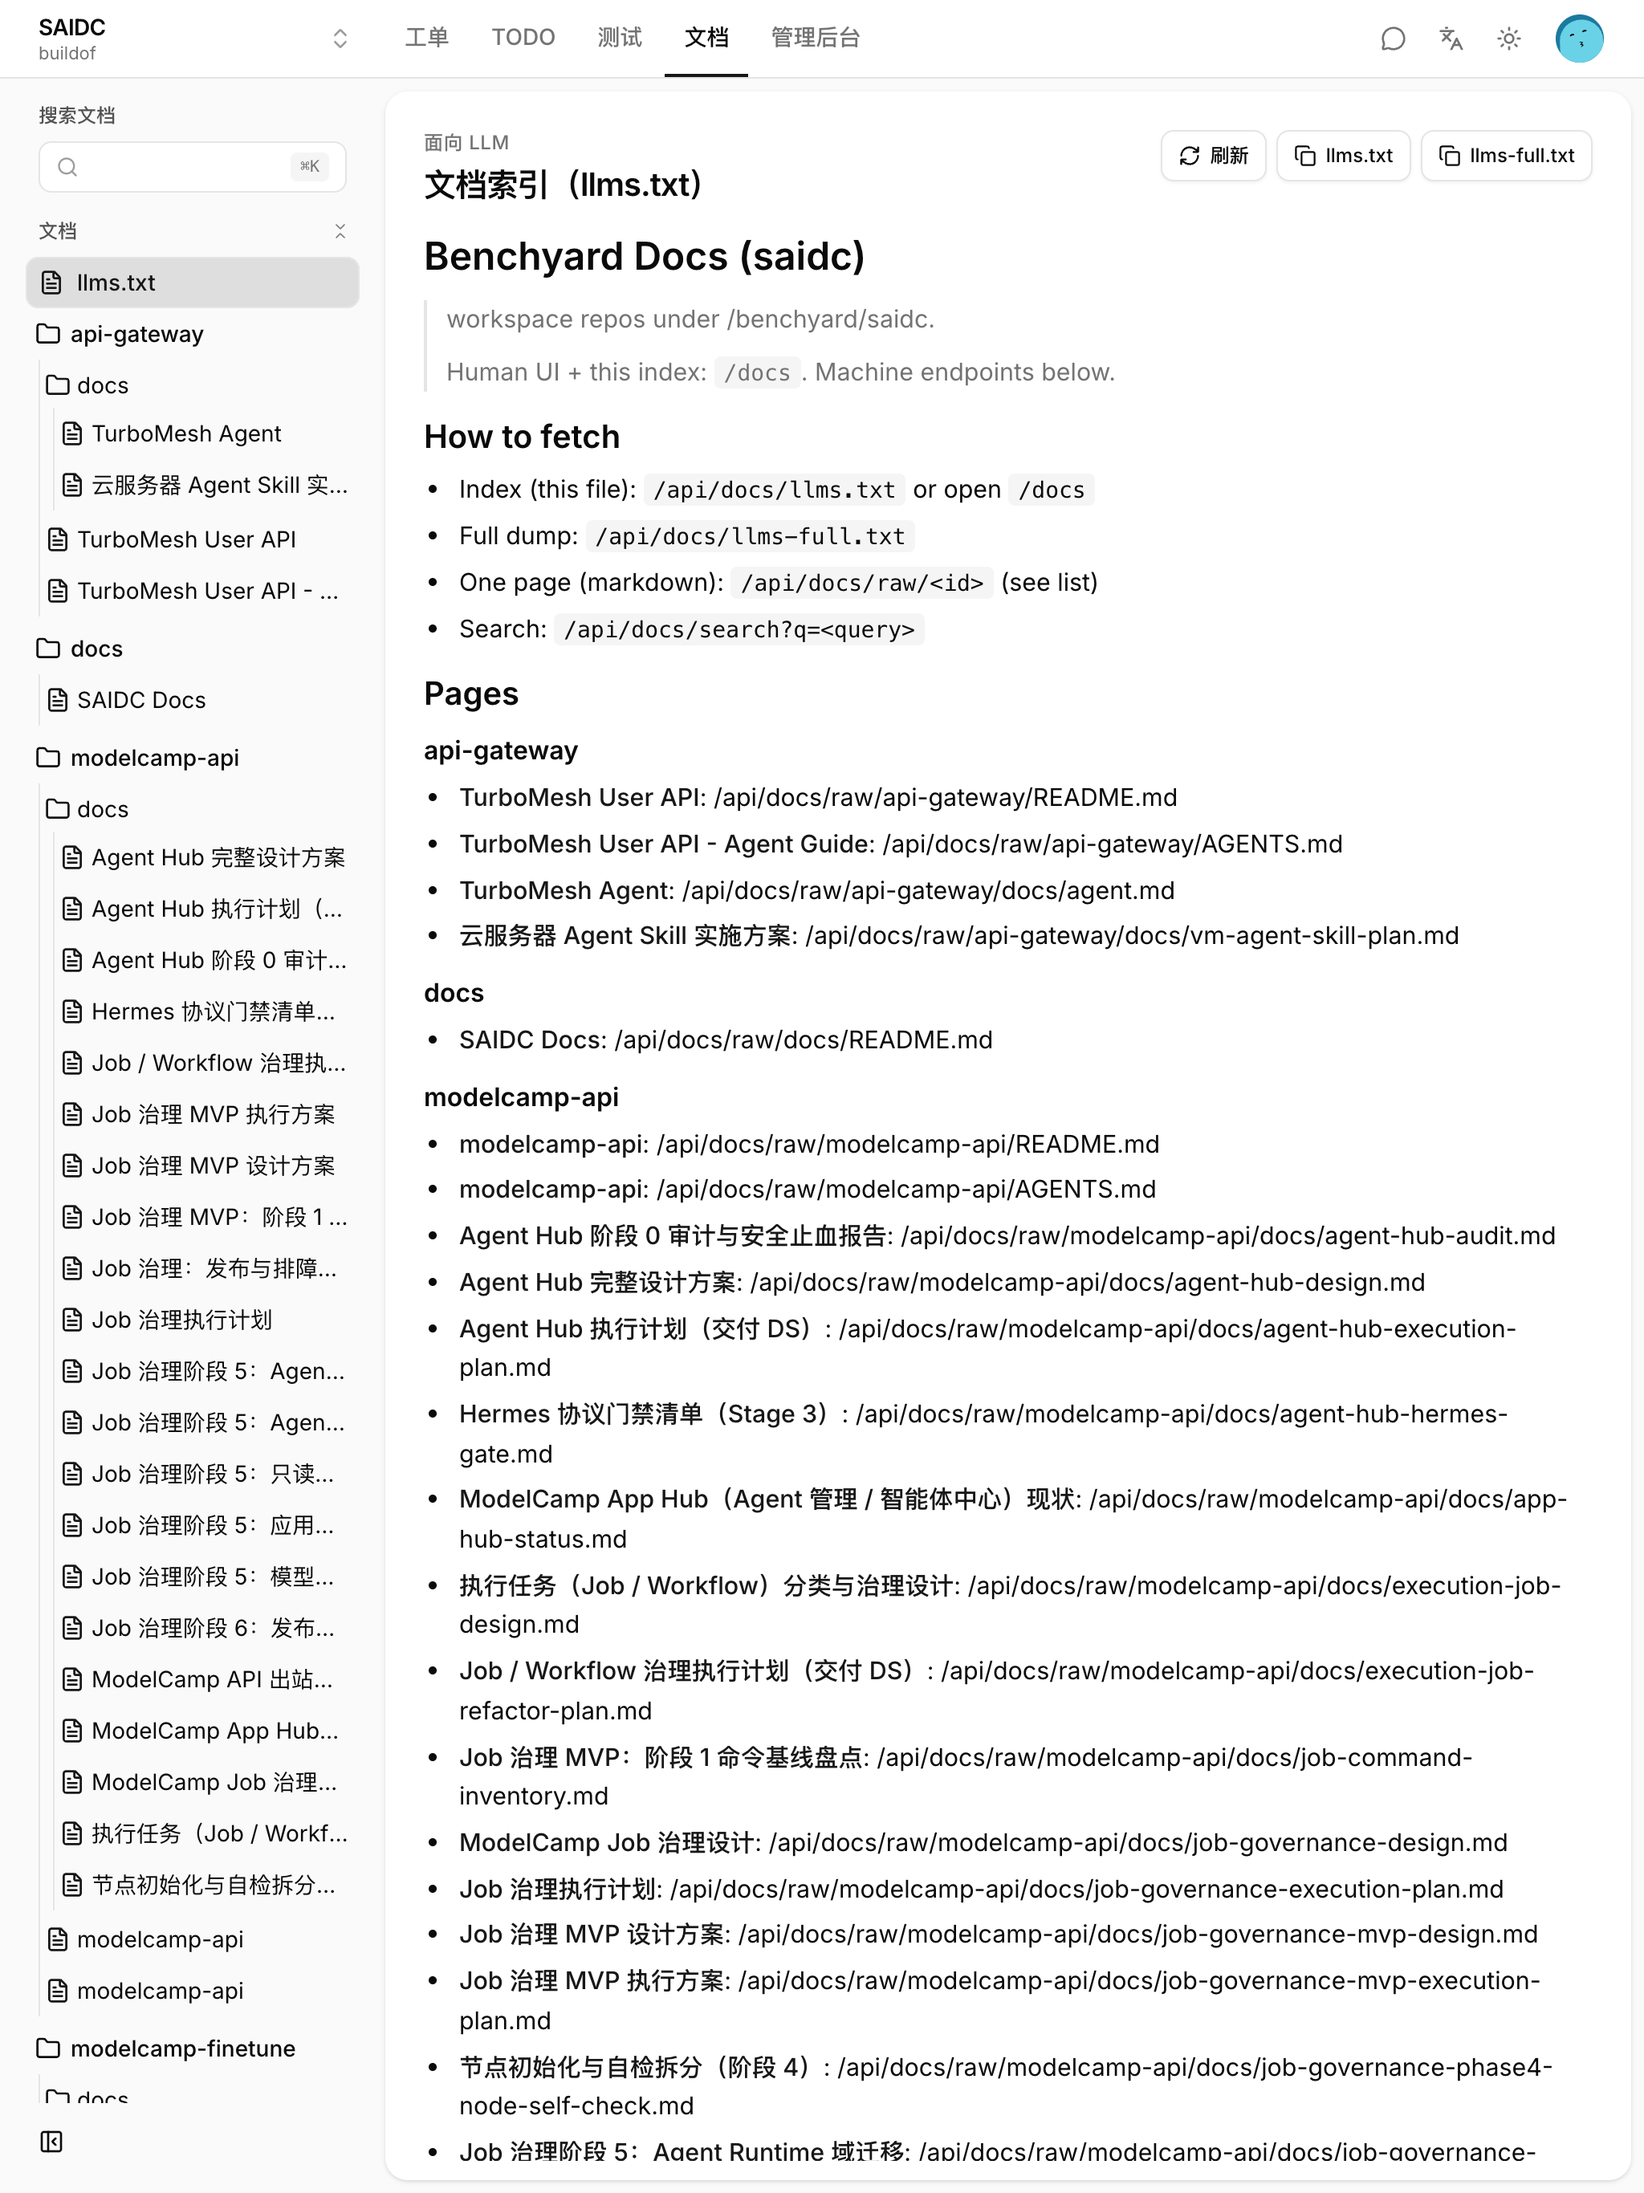
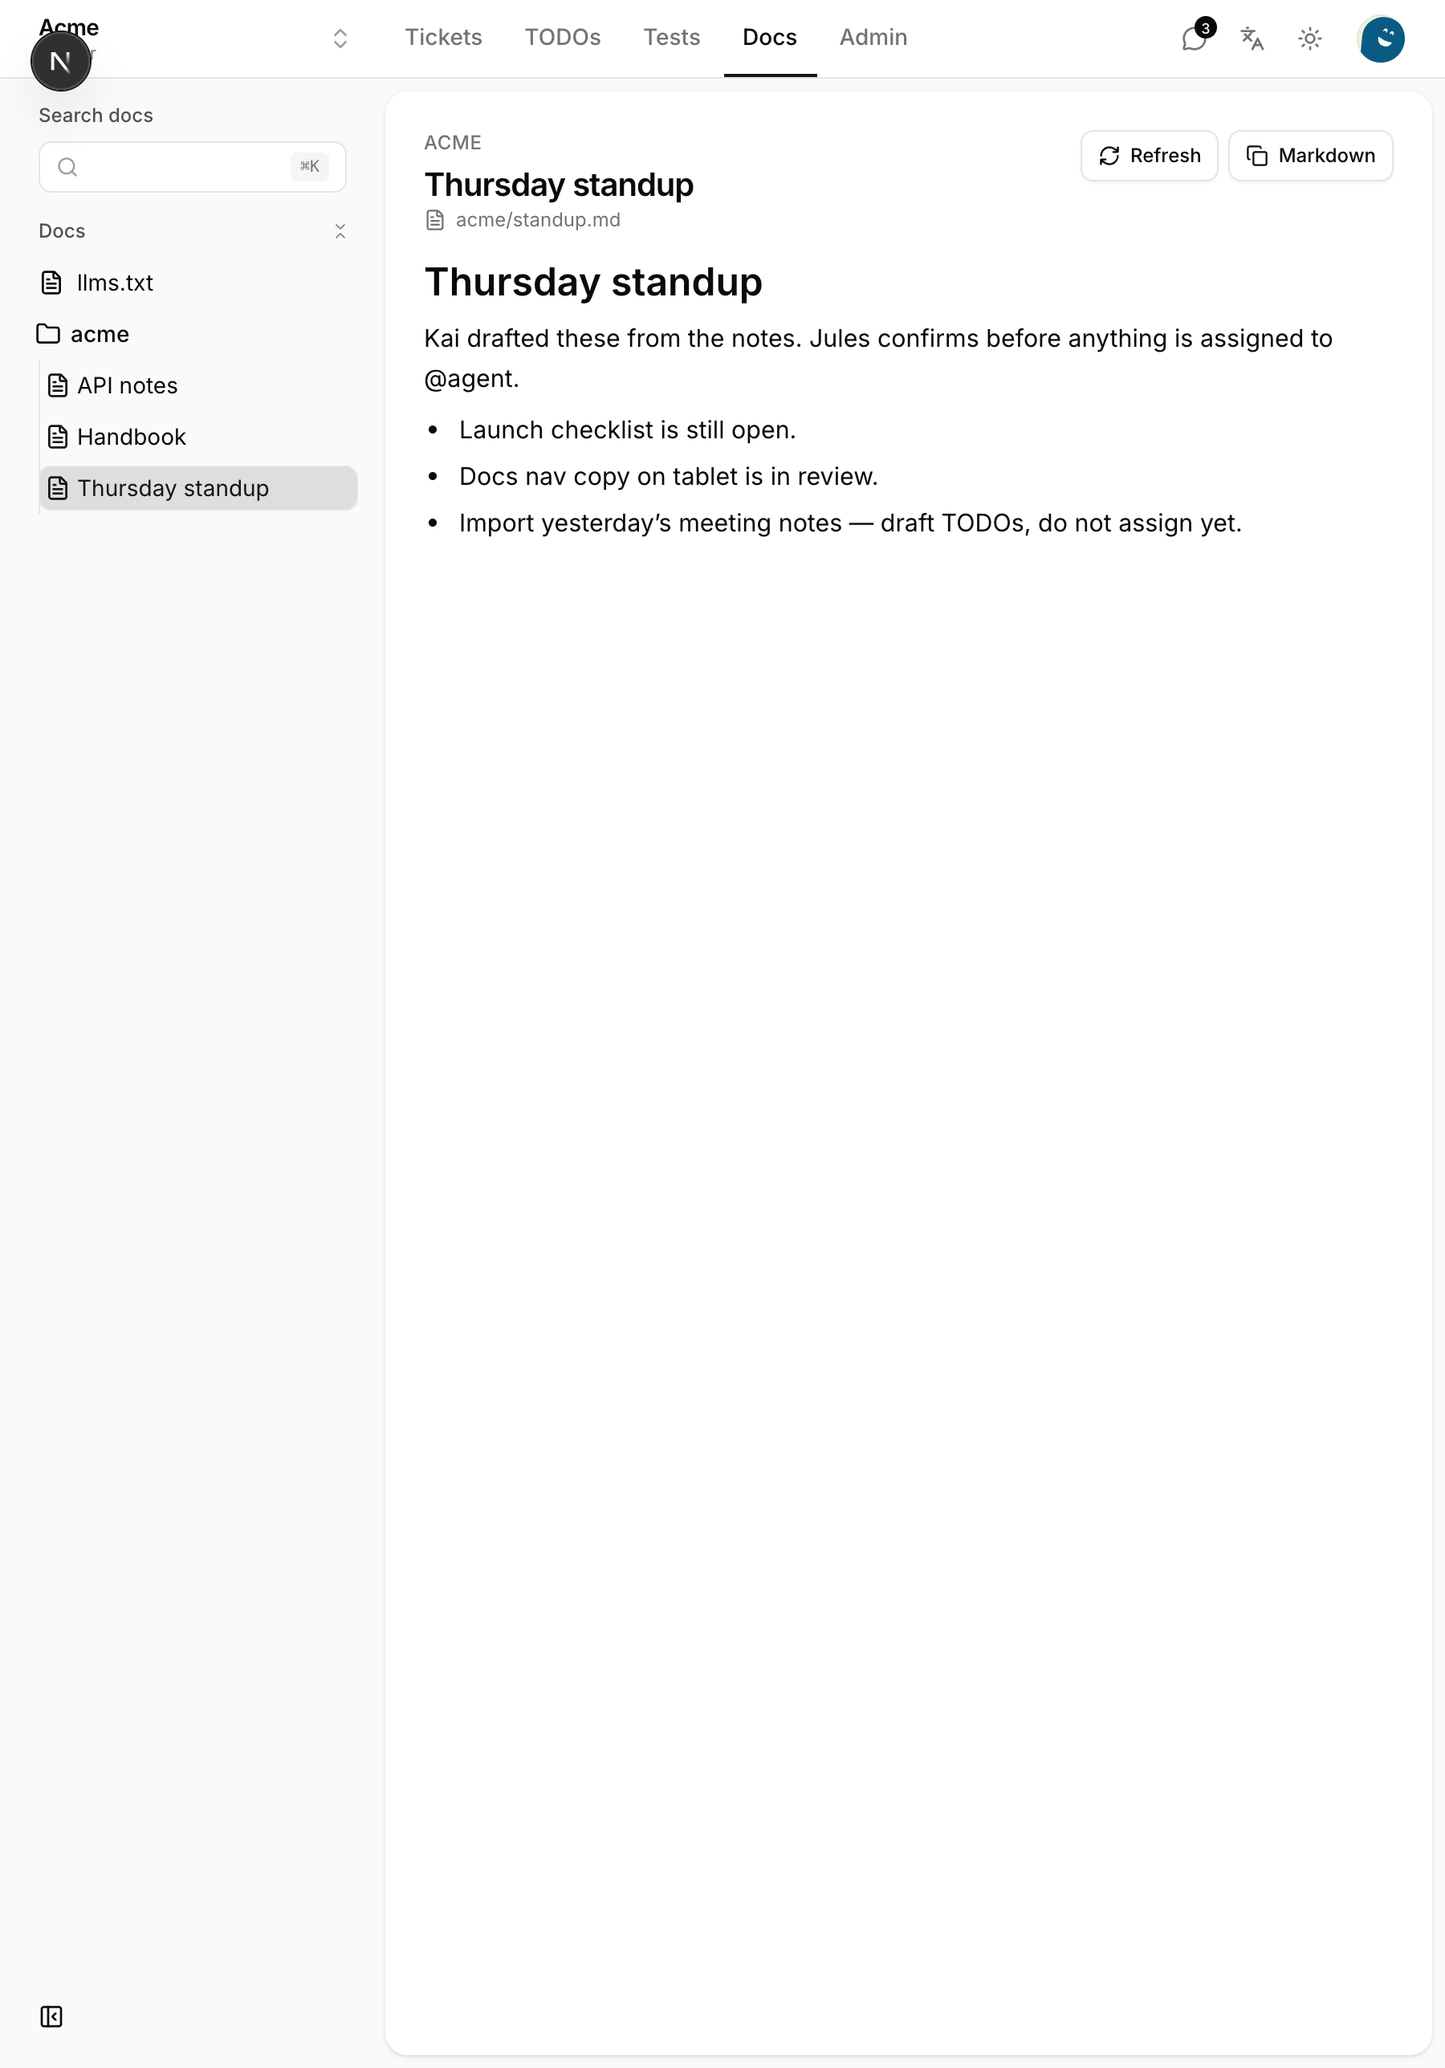
Fit device shots to the bezels and replace live SAID C data with Acme mocks.

diff --git a/styles.css b/styles.css
@@ -222,7 +222,7 @@ svg {
   border-radius: 20px;
   overflow: hidden;
   background: radial-gradient(1200px 420px at 50% -10%, #3f3f46, #18181b 58%);
-  min-height: 680px;
+  min-height: 720px;
   padding: 28px 12px 0;
 }
 
@@ -308,53 +308,57 @@ svg {
 
 .hero-devices {
   position: relative;
-  height: 620px;
+  height: 640px;
 }
 
 .hero-pad {
   position: absolute;
-  left: 8px;
-  top: 48px;
+  left: 0;
+  top: 64px;
   width: 560px;
   height: 778px;
-  transform: scale(0.5);
+  transform: scale(0.48);
   transform-origin: top left;
-  z-index: 2;
+  z-index: 1;
 }
 
 .hero-mac {
   position: absolute;
-  left: 36%;
-  top: 28px;
+  left: 50%;
+  top: 32px;
   width: 740px;
   height: 434px;
-  margin-left: 0;
-  transform: scale(1.02);
-  transform-origin: top left;
+  margin-left: -370px;
+  transform: scale(1.06);
+  transform-origin: top center;
   z-index: 3;
 }
 
 .hero-phone {
   position: absolute;
-  right: 12px;
-  bottom: 8px;
+  right: 4px;
+  bottom: 4px;
   width: 428px;
   height: 868px;
-  transform: scale(0.46);
+  transform: scale(0.44);
   transform-origin: bottom right;
   z-index: 4;
 }
 
 .device-screen {
+  position: relative;
   overflow: hidden;
   background: var(--app-bg) !important;
 }
 
 .device-screen .shot {
-  width: 100%;
-  height: 100%;
-  object-fit: cover;
-  object-position: top left;
+  position: absolute;
+  inset: 0;
+  width: 100% !important;
+  height: 100% !important;
+  max-width: none;
+  object-fit: fill;
+  object-position: center;
 }
 
 .os-dock {
